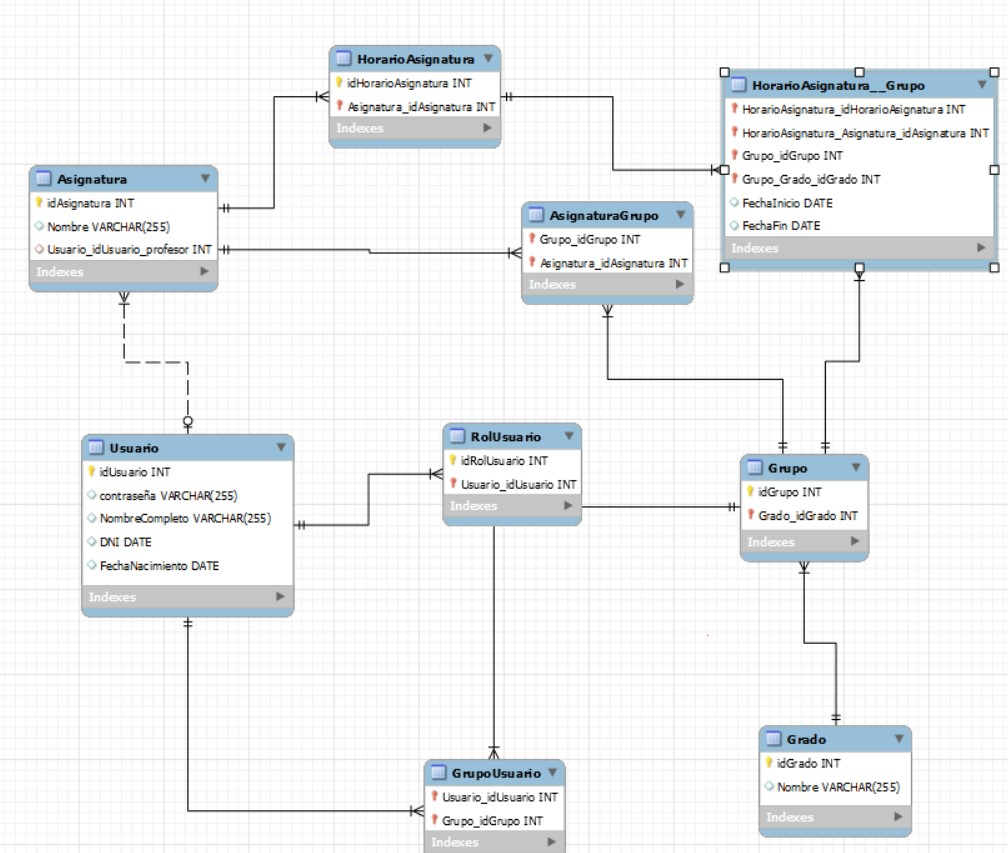
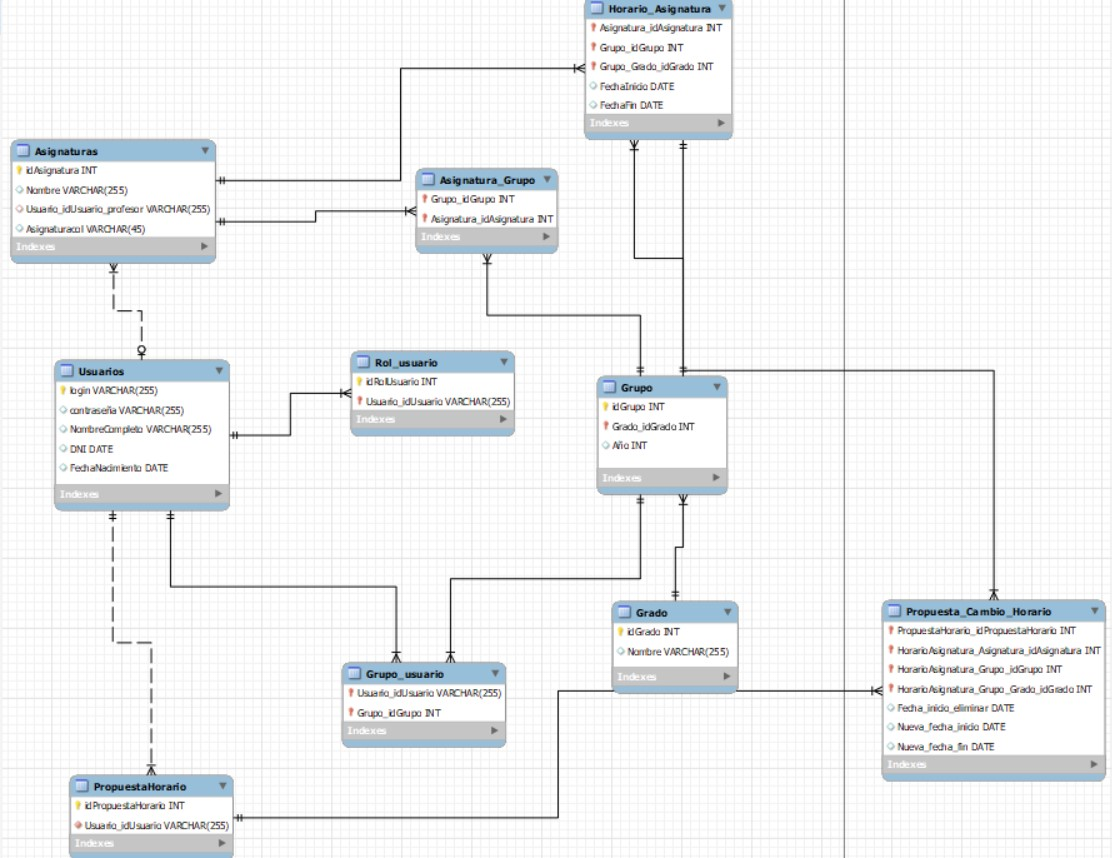
Subida supuesto1 final

diff --git a/lab1/README.md b/lab1/README.md
@@ -133,9 +133,9 @@ $~$
 
 #### **Requisitos de la información**
 
-| RI-01                    | HorarioAsignatura               |
+| RI-01                    | Horario_Asignatura               |
 | :---                     | :---                          |
-| Requisitos asiciados     | UC-01         |
+| Requisitos asiciados     | UC-01, UC-02, UC-06         |
 | Descripción              | El sistema deberá almacenar información correspondiente a cuándo se imparte una determinada asignatura, para así formar el horario completo de un grupo.           |
 | Datos específicos        | HorarioAsignatura: <br> -idAsignatura (entero) <br> -idGrupo (entero) <br> -idGrado (entero) <br> -FechaInicio (dd/mm/aaaa hh:mm) <br> -FechaFin (dd/mm/aaaa hh:mm).|
 | Comentarios               | Ninguno. |
@@ -144,7 +144,7 @@ $~$
 
 | RI-02                    | Asignaturas               |
 | :---                     | :---                          |
-| Requisitos asiciados     | UC-01         |
+| Requisitos asiciados     | UC-01, UC-02, UC-06      |
 | Descripción              | El sistema deberá almacenar información correspondiente a cada asignatura de la universidad.           |
 | Datos específicos        | -idAsignatura (entero) <br> -Nombre asignatura: 255 caracteres <br> -Profesor: 255 caracteres |
 | Comentarios               | Ninguno. |
@@ -153,16 +153,16 @@ $~$
 
 | RI-03                    | Usuarios               |
 | :---                     | :---                          |
-| Requisitos asiciados     | UC-01         |
+| Requisitos asiciados     | UC-04, UC-05, UC-07         |
 | Descripción              | El sistema deberá almacenar información correspondiente a los usuarios del sistema, PDI, PAS y Estudiante |
 | Datos específicos        | -login (255 caracteres)<br> -contraseña (255 caracteres) <br> NombreCompleto (255 caracteres) <br> DNI (XXXXXXXX-A) <br> -FechaNacimiento: dd/mm/aaaa hh:mm |
 | Comentarios               | Ninguno. |
 
 <br>
 
-| RI-04                    | Rol de usuario                |
+| RI-04                    | Rol_usuario                |
 | :---                     | :---                          |
-| Requisitos asiciados     | UC-02                         |
+| Requisitos asiciados     | UC-05                         |
 | Descripción              | Un usuario puede ser Estudiante, PDI y PAS simultánemeante, o cualquier combinación de estos.    |
 | Datos específicos        | -login (255 caracteres) <br> idRolUsuario (entero)  |
 | Comentarios               | Ninguno. |
@@ -171,7 +171,7 @@ $~$
 
 | RI-05                    | Grupos                        |
 | :---                     | :---                          |
-| Requisitos asiciados     | UC-03                         |
+| Requisitos asiciados     | UC-04                         |
 | Descripción              | El sistema deberá almacenar información correspondiente a cada grupo. Un grupo es una clase de un grado.       | |
 | Datos específicos        | -idGrupo (entero) <br> -idAsignatura (entero) <br> -año (entero)  |
 | Comentarios               | Se considera que todos los estudiantes con mismpo grado y año, se encuentran en la misma lista de clase. |
@@ -180,19 +180,46 @@ $~$
 
 | RI-06                    | Grados               |
 | :---                     | :---                          |
-| Requisitos asiciados     | UC-04, UC-05         |
+| Requisitos asiciados     | UC-02, UC-06        |
 | Descripción              | El sistema deberá almacenar información correspondiente a cada Grado ofertado por la universidad         |
 | Datos específicos        | -idGrado (entero) <br> -Nombre (255 caracteres)|
 | Comentarios               | Ninguno. |
 
 <br>
 
-| RI-07                    | Usuario_Grupo            |
+| RI-07                    | Grupo_Usuario            |
 | :---                     | :---                          |
-| Requisitos asiciados     | UC-03        |
+| Requisitos asiciados     | UC-04        |
 | Descripción              | El sistema deberá almacenar información correspondiente al grupo al que pertenece cada usuario Estudiante.           |
 | Datos específicos        | -idUsuario (entero) <br> -idGrupo (entero)|
-| Comentarios               | El identificador se corresponderá con el DNI del usuario |
+| Comentarios               | Ninguno. |
+
+<br>
+
+| RI-08                    | Propuesta_horario            |
+| :---                     | :---                          |
+| Requisitos asiciados     | UC-01, UC-02        |
+| Descripción              | El sistema deberá almacenar información correspondiente a las propuestas de modificación de un horario.        |
+| Datos específicos        | -idUsuario (entero) <br> -idPropuesta (entero)|
+| Comentarios               | Ninguno. |
+
+<br>
+
+| RI-09                    | Propuesta_Cambio_Horario           |
+| :---                     | :---                          |
+| Requisitos asiciados     | UC-01, UC-02        |
+| Descripción              | El sistema deberá almacenar información correspondiente a las propuestas de modificación de un horario para un grupo de un grado en específico. Registrando la fecha a eliminar y la nueva fecha a agregar.        |
+| Datos específicos        | -idPropuesta_horario (entero) <br> -idAsignatura (entero) <br> -idGrupo (entero) <br> -idGrado (entero) <br> -Fecha_inicio_eliminar (DATE) <br> -Fecha_inicio_nueva (DATE) <br> -Fecha_fin_nueva (DATE) |
+| Comentarios               | Ninguno. |
+
+<br>
+
+| RI-10                    | Asignatura_Grupo          |
+| :---                     | :---                          |
+| Requisitos asiciados     | UC-01        |
+| Descripción              | El sistema deberá almacenar qué asignatura se imparte para cada grupo.      |
+| Datos específicos        | -idGrupo (entero) <br> -idAsignatura (entero)|
+| Comentarios              | Ninguno. |
 
 <br>
 
